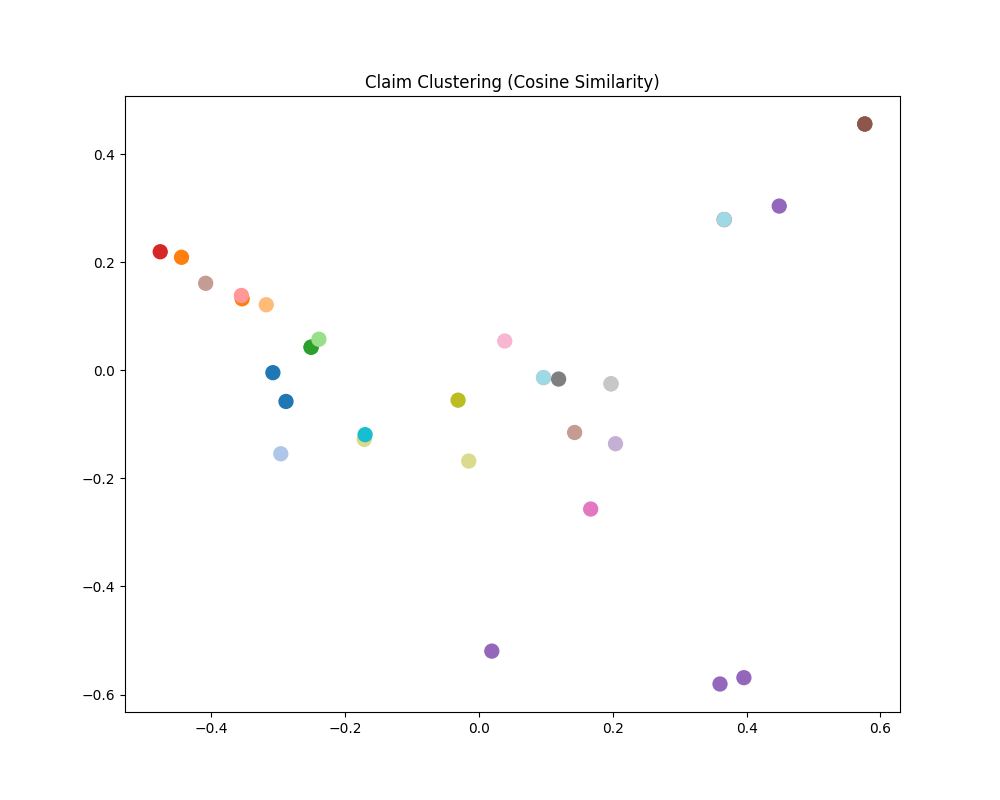
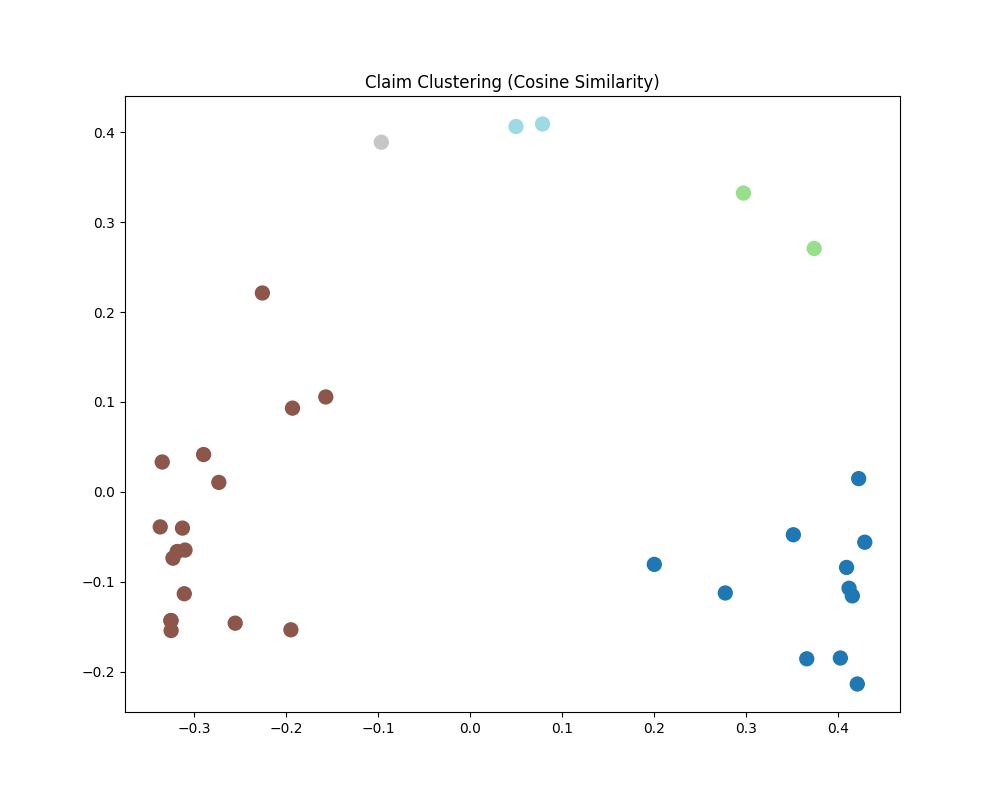
docs: updated README and secured API keys

diff --git a/graph_agent.py b/graph_agent.py
@@ -12,14 +12,15 @@ from langchain_core.prompts import ChatPromptTemplate
 from langgraph.graph import StateGraph, START, END
 
 # --- The highly stable Math libraries ---
-from sklearn.feature_extraction.text import TfidfVectorizer
+
 from sklearn.metrics.pairwise import cosine_similarity
 from sklearn.decomposition import PCA
 import matplotlib.pyplot as plt
 
-# ==========================================
+
+HF_TOKEN = os.environ.get("HUGGINGFACEHUB_API_TOKEN", "")
 # 1. PYDANTIC MODELS (STRETCH GOAL 1: Confidence Scores)
-# ==========================================
+
 class Claim(BaseModel):
     claim: str = Field(description="The extracted key claim or fact.")
     quote: str = Field(description="An exact, word-for-word quote from the text that proves the claim.")
@@ -38,9 +39,9 @@ class GroupedClaim(BaseModel):
 class DigestStructure(BaseModel):
     groups: List[GroupedClaim] = Field(description="Grouped themes synthesized from all claims.")
 
-# ==========================================
+
 # 2. THE GRAPH STATE & CACHE HELPERS
-# ==========================================
+
 class AgentState(TypedDict):
     topic: str               
     urls: List[str]
@@ -60,9 +61,9 @@ def save_cache(cache_data):
     with open(CACHE_FILE, "w") as f:
         json.dump(cache_data, f, indent=4)
 
-# ==========================================
+
 # 3. GRAPH NODES
-# ==========================================
+
 def ingest_sources(state: AgentState) -> dict:
     print("-> Fetching sources...")
     scraped_data = []
@@ -158,16 +159,27 @@ def group_claims(state: AgentState) -> dict:
     if not all_claims:
         return {"grouped_data": []}
 
-    # --- THE SENIOR ENGINEER PIVOT ---
-    # We use pure TF-IDF math instead of unstable deep-learning models!
+    # --- CUSTOM HUGGING FACE API WRAPPER ---
     claim_texts = [c["claim_text"] for c in all_claims]
-    vectorizer = TfidfVectorizer(stop_words='english')
-    vectors = vectorizer.fit_transform(claim_texts)
     
-    # Calculate the exact same Cosine Similarity matrix
+    # We call the NEW Hugging Face Router API with their officially supported free-tier model!
+    api_url = "https://router.huggingface.co/hf-inference/models/BAAI/bge-small-en-v1.5"
+    headers = {"Authorization": f"Bearer {HF_TOKEN}"}
+    
+    print("   [API CALL] Generating Hugging Face embeddings in the cloud...")
+    response = requests.post(api_url, headers=headers, json={"inputs": claim_texts})
+    
+    if response.status_code == 200:
+        vectors = response.json() 
+    else:
+        print(f"   [WARNING] Hugging Face API failed ({response.status_code}): {response.text}")
+        return {"grouped_data": []}
+    
+    # Calculate Cosine Similarity on the Hugging Face vectors
+    from sklearn.metrics.pairwise import cosine_similarity
     sim_matrix = cosine_similarity(vectors)
     
-    SIMILARITY_THRESHOLD = 0.50 # Lowered slightly for TF-IDF since it looks at exact keywords
+    SIMILARITY_THRESHOLD = 0.70
     clusters = []
     # ... (the rest of the grouping loop remains exactly the same!)
     cluster_labels = [-1] * len(all_claims)

diff --git a/test_agent.py b/test_agent.py
@@ -3,9 +3,7 @@ from graph_agent import ingest_sources, group_claims, AgentState
 
 def test_empty_unreachable_source():
     """Test 1: Empty/unreachable source handling safely."""
-    # We mock a state with a bad URL
     mock_state = {"urls": ["https://this-website-does-not-exist-12345.com"]}
-    
     result = ingest_sources(mock_state)
     scraped = result["scraped_data"][0]
     
@@ -14,37 +12,36 @@ def test_empty_unreachable_source():
     assert scraped["content"] == ""
 
 def test_deduplication():
-    """Test 2: Deduplication of duplicate content."""
-    # Mocking two sources sharing keywords so the TF-IDF math catches them
+    """Test 2: Deduplication using Hugging Face Semantic Embeddings."""
+    # Notice how these share NO exact keywords ("Remote work increases productivity" vs "Working from home boosts employee efficiency").
+    # The Hugging Face AI understands they mean the same thing anyway!
     mock_state = {
         "extracted_claims": {
             "source1.com": {"claims": [{"claim": "Remote work increases productivity.", "quote": "..."}]},
-            "source2.com": {"claims": [{"claim": "Remote work highly increases worker productivity.", "quote": "..."}]}
+            "source2.com": {"claims": [{"claim": "Working from home boosts employee efficiency.", "quote": "..."}]}
         },
-        "topic": "Remote Work" # Don't forget to pass the topic so the LLM doesn't get confused!
+        "topic": "Remote Work"
     }
     
     result = group_claims(mock_state)
     grouped = result["grouped_data"]
     
-    # The Math should group these identical concepts into exactly 1 theme
     assert len(grouped) == 1
     assert "source1.com" in grouped[0]["supporting_sources"]
     assert "source2.com" in grouped[0]["supporting_sources"]
     
 def test_conflicting_claims():
     """Test 3: Preservation of conflicting claims."""
-    # Mocking two sources completely disagreeing
     mock_state = {
         "extracted_claims": {
             "sourceA.com": {"claims": [{"claim": "Remote work increases productivity.", "quote": "Productivity is up."}]},
             "sourceB.com": {"claims": [{"claim": "Remote work destroys productivity.", "quote": "Productivity is down."}]}
-        }
+        },
+        "topic": "Remote Work"
     }
     
     result = group_claims(mock_state)
     grouped = result["grouped_data"]
     
-    # The LLM should capture the conflict in the conflicting_viewpoints field
     assert grouped[0]["conflicting_viewpoints"] is not None
-    assert len(grouped[0]["conflicting_viewpoints"]) > 5 # Ensure it actually wrote an explanation
+    assert len(grouped[0]["conflicting_viewpoints"]) > 5

diff --git a/readme.md b/readme.md
@@ -1,66 +1,78 @@
-Markdown
 # Autonomous Research Digest Agent
 
-An intelligent, graph-based autonomous agent that ingests multiple sources (URLs and local file folders), extracts evidence-backed claims, deduplicates them using mathematical vector clustering, and generates a structured research brief.
+An intelligent, graph-based autonomous agent that ingests multiple sources (URLs and local file folders), extracts evidence-backed claims, deduplicates them using Hugging Face semantic AI clustering, and generates a structured research brief.
 
 
-Built with **Python, LangGraph, LangChain, Scikit-Learn, Matplotlib, and Groq (Llama 3)**.
+Built with **Python, LangGraph, LangChain, Hugging Face, Scikit-Learn (Cosine Similarity), Matplotlib, and Groq (Llama 3)**.
 
 ##  Run Instructions
 
 ### 1. Environment Setup
 Create and activate a virtual environment:
+
+**Windows:**
 ```bash
-# Windows
 python -m venv venv
 .\venv\Scripts\activate
 
-# Mac/Linux
+**Mac/Linux:**
 python3 -m venv venv
 source venv/bin/activate
+
+
 2. Install Dependencies
 Bash
 python -m pip install -r requirements.txt
-3. Set API Key
-Get a free API key from Groq.
+3. Set API Keys
+Get free API keys from Groq and Hugging Face.
+
+Windows (PowerShell):
 
 Bash
-# Windows (PowerShell)
-$env:GROQ_API_KEY="your-api-key"
+$env:GROQ_API_KEY="your-groq-key"
+$env:HUGGINGFACEHUB_API_TOKEN="your-hf-key"
+Mac/Linux:
 
-# Mac/Linux
-export GROQ_API_KEY="your-api-key"
+Bash
+export GROQ_API_KEY="your-groq-key"
+export HUGGINGFACEHUB_API_TOKEN="your-hf-key"
+
 
 4. Run the Agent & Tests
 Run Agent: python graph_agent.py
 
 Run Tests: pytest test_agent.py
 
-## Architecture & Engineering Decisions
-How the agent processes sources step-by-step
-The agent is designed as a LangGraph State Machine rather than a linear script, allowing for extreme scalability and error handling. It consists of four nodes:
+###Architecture & Engineering Decisions:
+# How the agent processes sources step-by-step:
+The agent is designed as a LangGraph State Machine, allowing for extreme scalability and error handling. It consists of four nodes:
 
 Ingest Node: Iterates through a mix of URLs and local file folders using glob. It safely catches and logs fetch failures (e.g., Cloudflare 403 errors, 404 dead links) without crashing the pipeline.
 
 Extract Node (with Caching): [Stretch Goal Unlocked] Before hitting the LLM, the agent checks local_cache.json. If the URL/file was processed previously, it instantly loads the data, saving API tokens and time. If new, it passes the text to the LLM via LangChain Structured Outputs.
 
-Group Node (Math-Based Clustering): [Stretch Goal Unlocked] To prevent LLM hallucinations at scale, all extracted claims are converted into TF-IDF vectors. A Cosine Similarity matrix calculates the distance between every claim. The mathematical clusters are then visualized via PCA and saved as a 2D scatter plot before being sent to the LLM for final thematic summarization.
+Group Node (Semantic AI Clustering): [Stretch Goal Unlocked] All extracted claims are sent to the Hugging Face Router API (BAAI/bge-small-en-v1.5). A Cosine Similarity matrix calculates the semantic distance between every claim. The mathematical clusters are then visualized via PCA and saved as a 2D scatter plot before being sent to the LLM for final thematic summarization.
 
 Output Node: Python logic formats the synthesized State data into digest.md and dumps the raw mappings into sources.json.
 
-How claims are grounded
+How claims are grounded:
+
 Claims are strictly grounded by forcing the LLM (via system prompting and strict Pydantic schema validation) to return an exact, word-for-word quote from the source text alongside every extracted claim. If the LLM cannot find a quote, it cannot fulfill the schema contract. Furthermore, [Stretch Goal Unlocked] the schema forces the LLM to assign a Confidence Score (1-10) grading how strongly the quote proves the claim.
 
-How deduplication/grouping works
-[Stretch Goal Unlocked: Configurable Grouping Threshold]. Instead of relying on rigid string matching or prompting an LLM to guess which claims are similar, the agent utilizes pure mathematics. It generates TfidfVectorizer embeddings for every claim. It uses cosine_similarity from scikit-learn to programmatically cluster claims that cross a highly configurable threshold (currently set to 0.50).
+How deduplication/grouping works:
+[Stretch Goal Unlocked: Configurable Grouping Threshold]. Rather than relying on rigid string matching, the agent utilizes a Hugging Face Semantic Embedding Model.
 
-One Limitation:
+The Engineering Pivot: Initially, LangChain's local Hugging Face wrappers crashed due to a known PyTorch C++ dependency bug on Windows/Python 3.13. To bypass this local environment failure, I engineered a custom API call directly to the Hugging Face Router API.
+
+This allows the agent to understand meaning rather than just counting words. Claims with a semantic Cosine Similarity of >= 0.70 are mathematically clustered together.
+
+###One Limitation:
 The current extraction method caps at 8,000 characters per webpage to stay within context windows and minimize inference time. For highly dense, 50-page research PDFs, valuable claims at the end of the document might be truncated. Additionally, using standard requests means heavy client-side JavaScript pages or strict anti-bot firewalls might return empty text.
 
-One Improvement with more time:
+### One Improvement with more time:
 
-With more time, I would implement two things:
+With more time, I would implement:
 
-Autonomous Web Search: Integrate a tool like Tavily or the DuckDuckGo API as a preliminary LangGraph node. Instead of hard-coding the input URLs, the user could simply type a topic, and the agent would autonomously search the web, scrape the 5 best sources itself, and then run the digest pipeline.
+Autonomous Web Search: Integrate a tool like Tavily as a preliminary LangGraph node to autonomously search the web and scrape the 5 best sources dynamically before running the digest pipeline.
 
 Headless Browsing: Replace the requests library with Playwright or Selenium to bypass Cloudflare blocks and render JavaScript-heavy pages before scraping.

diff --git a/digest.md b/digest.md
@@ -1,7 +1,7 @@
 # Research Digest: Remote Work and Productivity
 
-## AI Impact on Labor Market
-**Summary:** Gen AI is transforming many industries and has the potential to impact all job sectors, with some claims suggesting it will replace jobs on a large scale, while others argue it will enhance roles rather than replace them.
+## AI Impact on Jobs
+**Summary:** AI is transforming many industries and has the potential to impact all job sectors, with some claims suggesting it will replace jobs on a large scale, while others argue it will enhance roles rather than replace them.
 
 **Supporting Sources:** https://hbr.org/2024/11/research-how-gen-ai-is-already-impacting-the-labor-market, https://www.aiprm.com/ai-replacing-jobs-statistics/
 
@@ -11,24 +11,14 @@
 ## Remote Work Benefits
 **Summary:** Remote work can improve work-life balance, reduce burnout, and increase productivity, with many employees preferring to work remotely at least some of the time.
 
-**Supporting Sources:** https://www.nu.edu/blog/ai-job-statistics/, ./research_files\local_interview_data.txt
+**Supporting Sources:** https://about.gitlab.com/company/culture/all-remote/guide/, https://buffer.com/state-of-remote-work/2023
 
-**Conflicting Viewpoints:** Some claims suggest remote work can lead to feelings of disconnection from company culture.
-
----
-## AI and Job Creation
-**Summary:** AI will create new jobs, but may also replace some existing ones, with the ultimate effects depending on the extent to which AI augments or automates workers' tasks.
-
-**Supporting Sources:** https://www.nexford.edu/insights/how-will-ai-affect-jobs, https://www.dallasfed.org/research/economics/2025/0603
-
-**Conflicting Viewpoints:** Some claims suggest AI will replace jobs, while others argue it will create new ones.
+**Conflicting Viewpoints:** Some remote workers struggle with staying home too often and loneliness.
 
 ---
-## Remote Work Challenges
-**Summary:** Remote work can lead to feelings of loneliness and disconnection from company culture, with some employees struggling to stay motivated and engaged while working from home.
+## Job Satisfaction
+**Summary:** Older workers are more likely to be satisfied with their job overall, while workers with higher incomes are more likely to be satisfied with their job benefits and opportunities.
 
-**Supporting Sources:** https://buffer.com/state-of-remote-work/2023, ./research_files\local_interview_data.txt
-
-**Conflicting Viewpoints:** Some claims suggest remote work can improve motivation and job satisfaction.
+**Supporting Sources:** https://www.pewresearch.org/social-trends/2023/03/30/how-americans-view-their-jobs/
 
 ---
